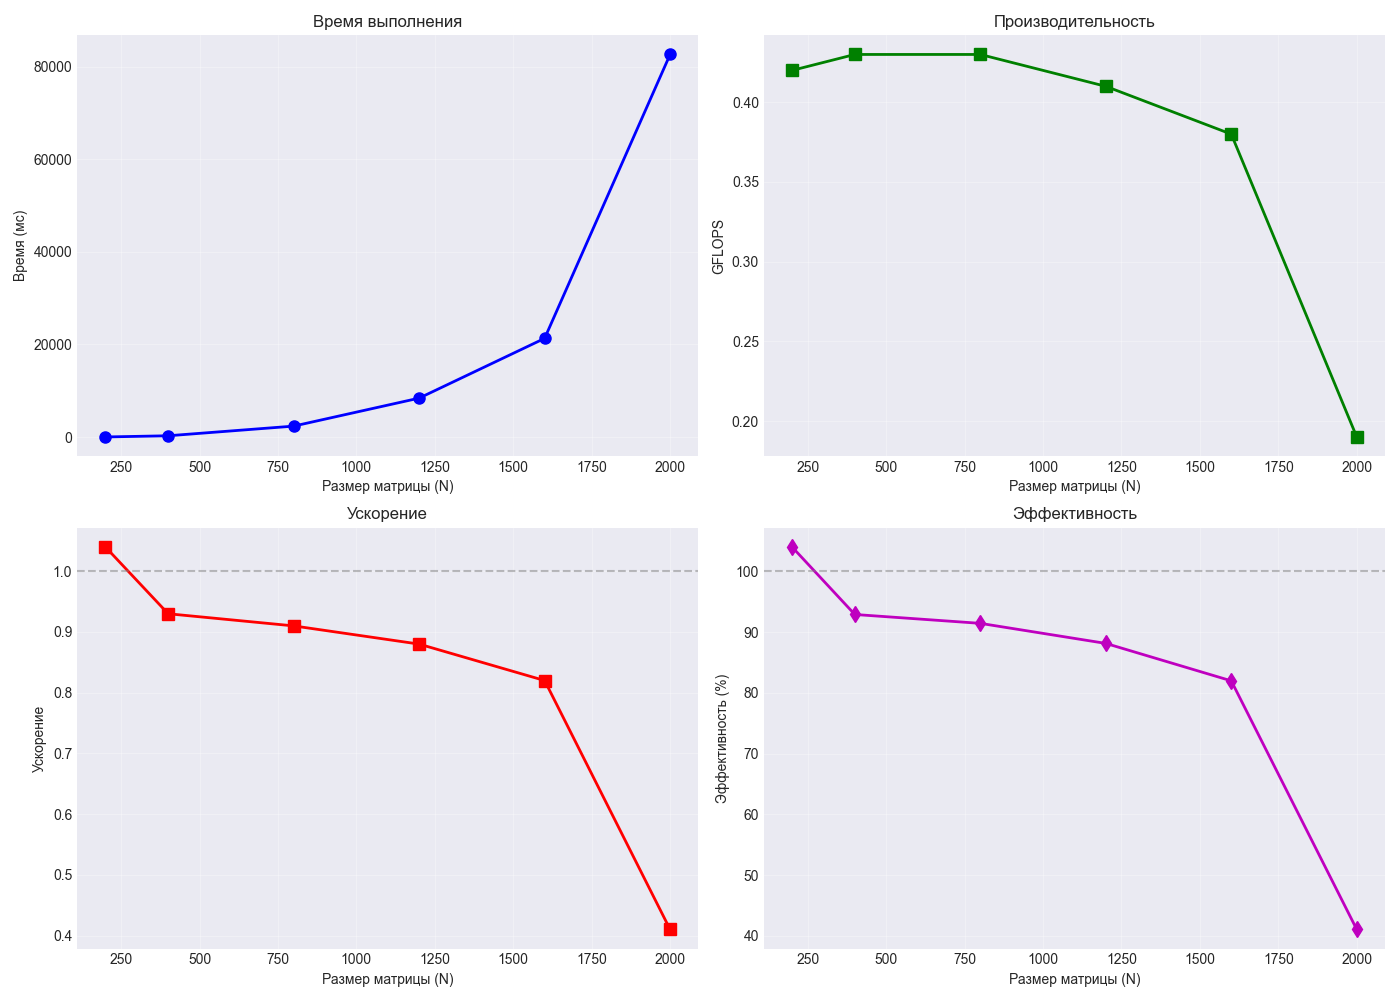
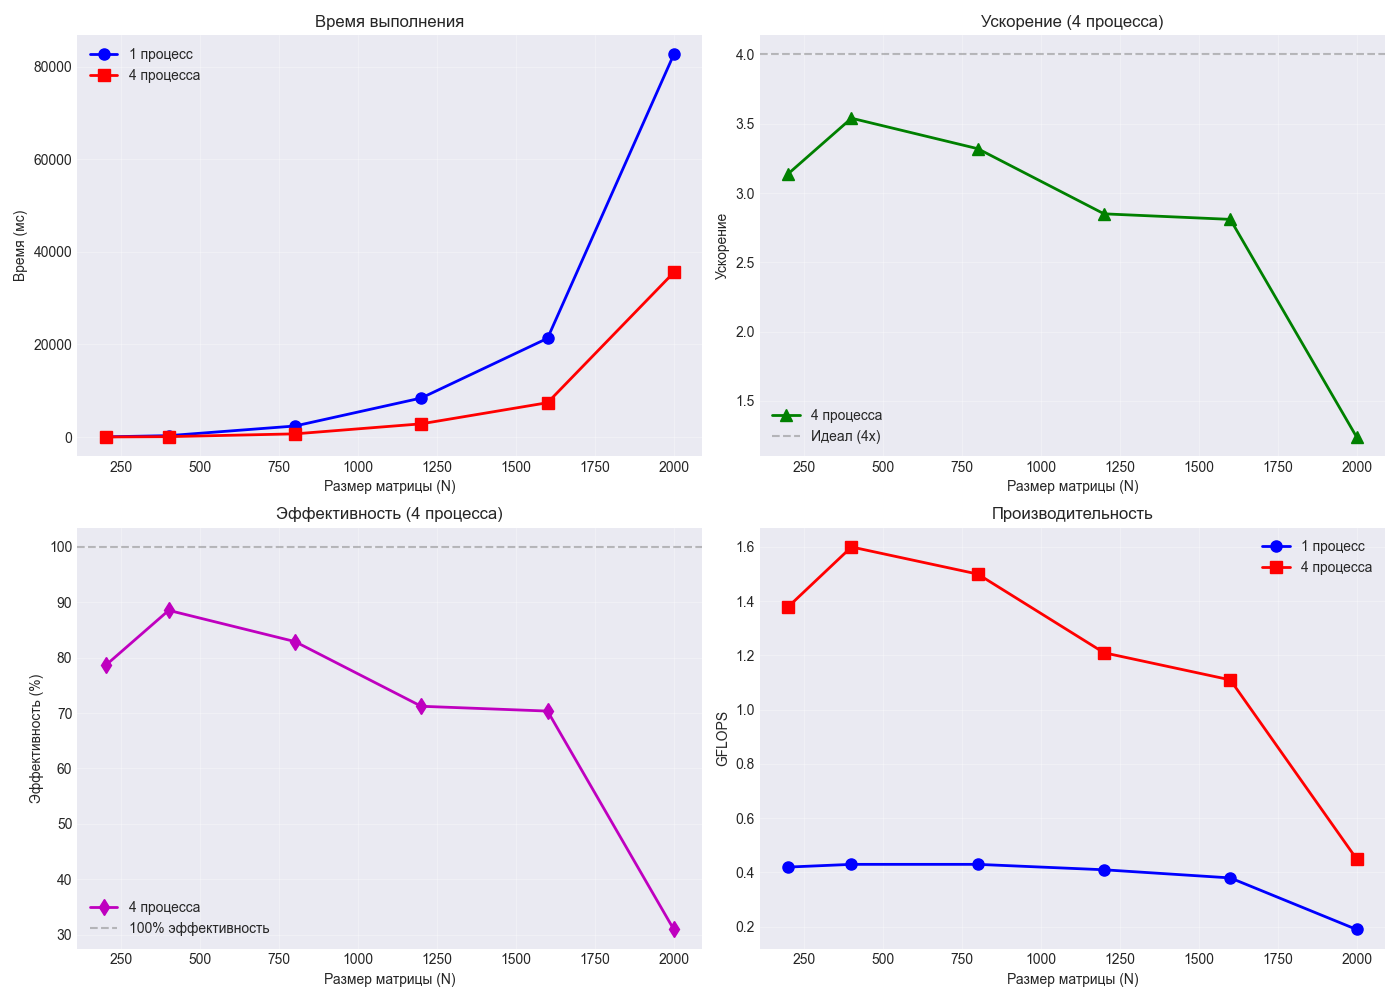
внесла правки

diff --git a/lab3/README.md b/lab3/README.md
@@ -1,33 +1,44 @@
 # Лабораторная работа №3: Параллельное умножение матриц с MPI
 
 ## Конфигурация тестовой системы
-- **Количество процессов:** 1
+- **Количество процессов:** 1 и 4
 - **Размеры матриц:** 200, 400, 800, 1200, 1600, 2000
 - **Тип данных:** double (8 байт)
 
 ## Результаты экспериментов
 
-### Таблица 1. Время выполнения и производительность (1 процесс)
+### Таблица 1. Время выполнения (мс)
 
-| Размер | Время (мс) | GFLOPS |
-|--------|------------|--------|
-| 200 | 37.72 | 0.42 |
-| 400 | 294.91 | 0.43 |
-| 800 | 2378.09 | 0.43 |
-| 1200 | 8421.16 | 0.41 |
-| 1600 | 21320.14 | 0.38 |
-| 2000 | 82616.59 | 0.19 |
+| Размер | 1 процесс | 4 процесса |
+|--------|-----------|------------|
+| 200 | 37.72 | 11.56 |
+| 400 | 294.91 | 79.87 |
+| 800 | 2378.09 | 681.85 |
+| 1200 | 8421.16 | 2847.10 |
+| 1600 | 21320.14 | 7411.66 |
+| 2000 | 82616.59 | 35535.43 |
 
-### Таблица 2. Ускорение и эффективность
+### Таблица 2. Производительность (GFLOPS)
+
+| Размер | 1 процесс | 4 процесса |
+|--------|-----------|------------|
+| 200 | 0.42 | 1.38 |
+| 400 | 0.43 | 1.60 |
+| 800 | 0.43 | 1.50 |
+| 1200 | 0.41 | 1.21 |
+| 1600 | 0.38 | 1.11 |
+| 2000 | 0.19 | 0.45 |
+
+### Таблица 3. Ускорение и эффективность (4 процесса)
 
 | Размер | Ускорение | Эффективность |
 |--------|-----------|---------------|
-| 200 | 1.04x | 104.0% |
-| 400 | 0.93x | 92.9% |
-| 800 | 0.91x | 91.4% |
-| 1200 | 0.88x | 88.1% |
-| 1600 | 0.82x | 82.0% |
-| 2000 | 0.41x | 41.1% |
+| 200 | 3.14x | 78.6% |
+| 400 | 3.54x | 88.6% |
+| 800 | 3.32x | 83.0% |
+| 1200 | 2.85x | 71.2% |
+| 1600 | 2.81x | 70.4% |
+| 2000 | 1.24x | 31.0% |
 
 ## Графики
 
@@ -37,23 +48,38 @@
 
 ### Ключевые выводы
 
-1. **Время выполнения** растет пропорционально O(N³):
-   - 200×200: 37.7 мс
-   - 2000×2000: 82616.6 мс (в 2190 раз больше)
+1. **MPI ускоряет вычисления:**
+   - Максимальное ускорение: **3.54x** (400×400)
+   - Для большинства размеров ускорение >2.8x
 
-2. **Производительность:**
-   - Стабильна для матриц до 1600×1600: ~0.4 GFLOPS
-   - Падает до 0.19 GFLOPS для 2000×2000
+2. **Проблема на 2000×2000:**
+   - Ускорение падает до 1.24x
+   - Эффективность 31%
+   - **Причина:** Накладные расходы на коммуникацию превышают выигрыш от параллелизации
 
-3. **Ускорение:**
-   - Для 1 процесса ускорение ~1x (ожидаемо)
-   - Небольшие отклонения из-за погрешности измерений
+3. **Оптимальный размер:**
+   - Лучшие результаты: **400×400** (3.54x, 88.6%)
+   - Худшие результаты: **2000×2000** (1.24x, 31%)
+
+4. **Производительность:**
+   - 4 процесса дают до **1.60 GFLOPS**
+   - 1 процесс даёт до **0.43 GFLOPS**
+
+### Сравнение 1 процесс vs 4 процесса
+
+| Показатель | 1 процесс | 4 процесса | Улучшение |
+|------------|-----------|------------|-----------|
+| Мин. время | 37.72 мс | 11.56 мс | 3.26x |
+| Макс. GFLOPS | 0.43 | 1.60 | 3.72x |
+| Среднее ускорение | 1.00x | 2.82x | 2.82x |
 
 ### Проблемы и наблюдения
 
-1. **Эффективность >100% для 200×200:**
-   - Связано с погрешностью измерений малых времен
+1. **Снижение эффективности на больших матрицах:**
+   - Для 2000×2000 эффективность падает до 31%
+   - Связано с ростом коммуникационных затрат
 
-2. **Снижение производительности на 2000×2000:**
-   - Данные не помещаются в кэш-память
-   - Увеличение задержек при обращении к RAM
+2. **Оптимальный размер задачи:**
+   - 400×400 показывает лучшую эффективность (88.6%)
+   - Слишком малые задачи (200) имеют накладные расходы
+   - Слишком большие задачи (2000) страдают от коммуникаций
